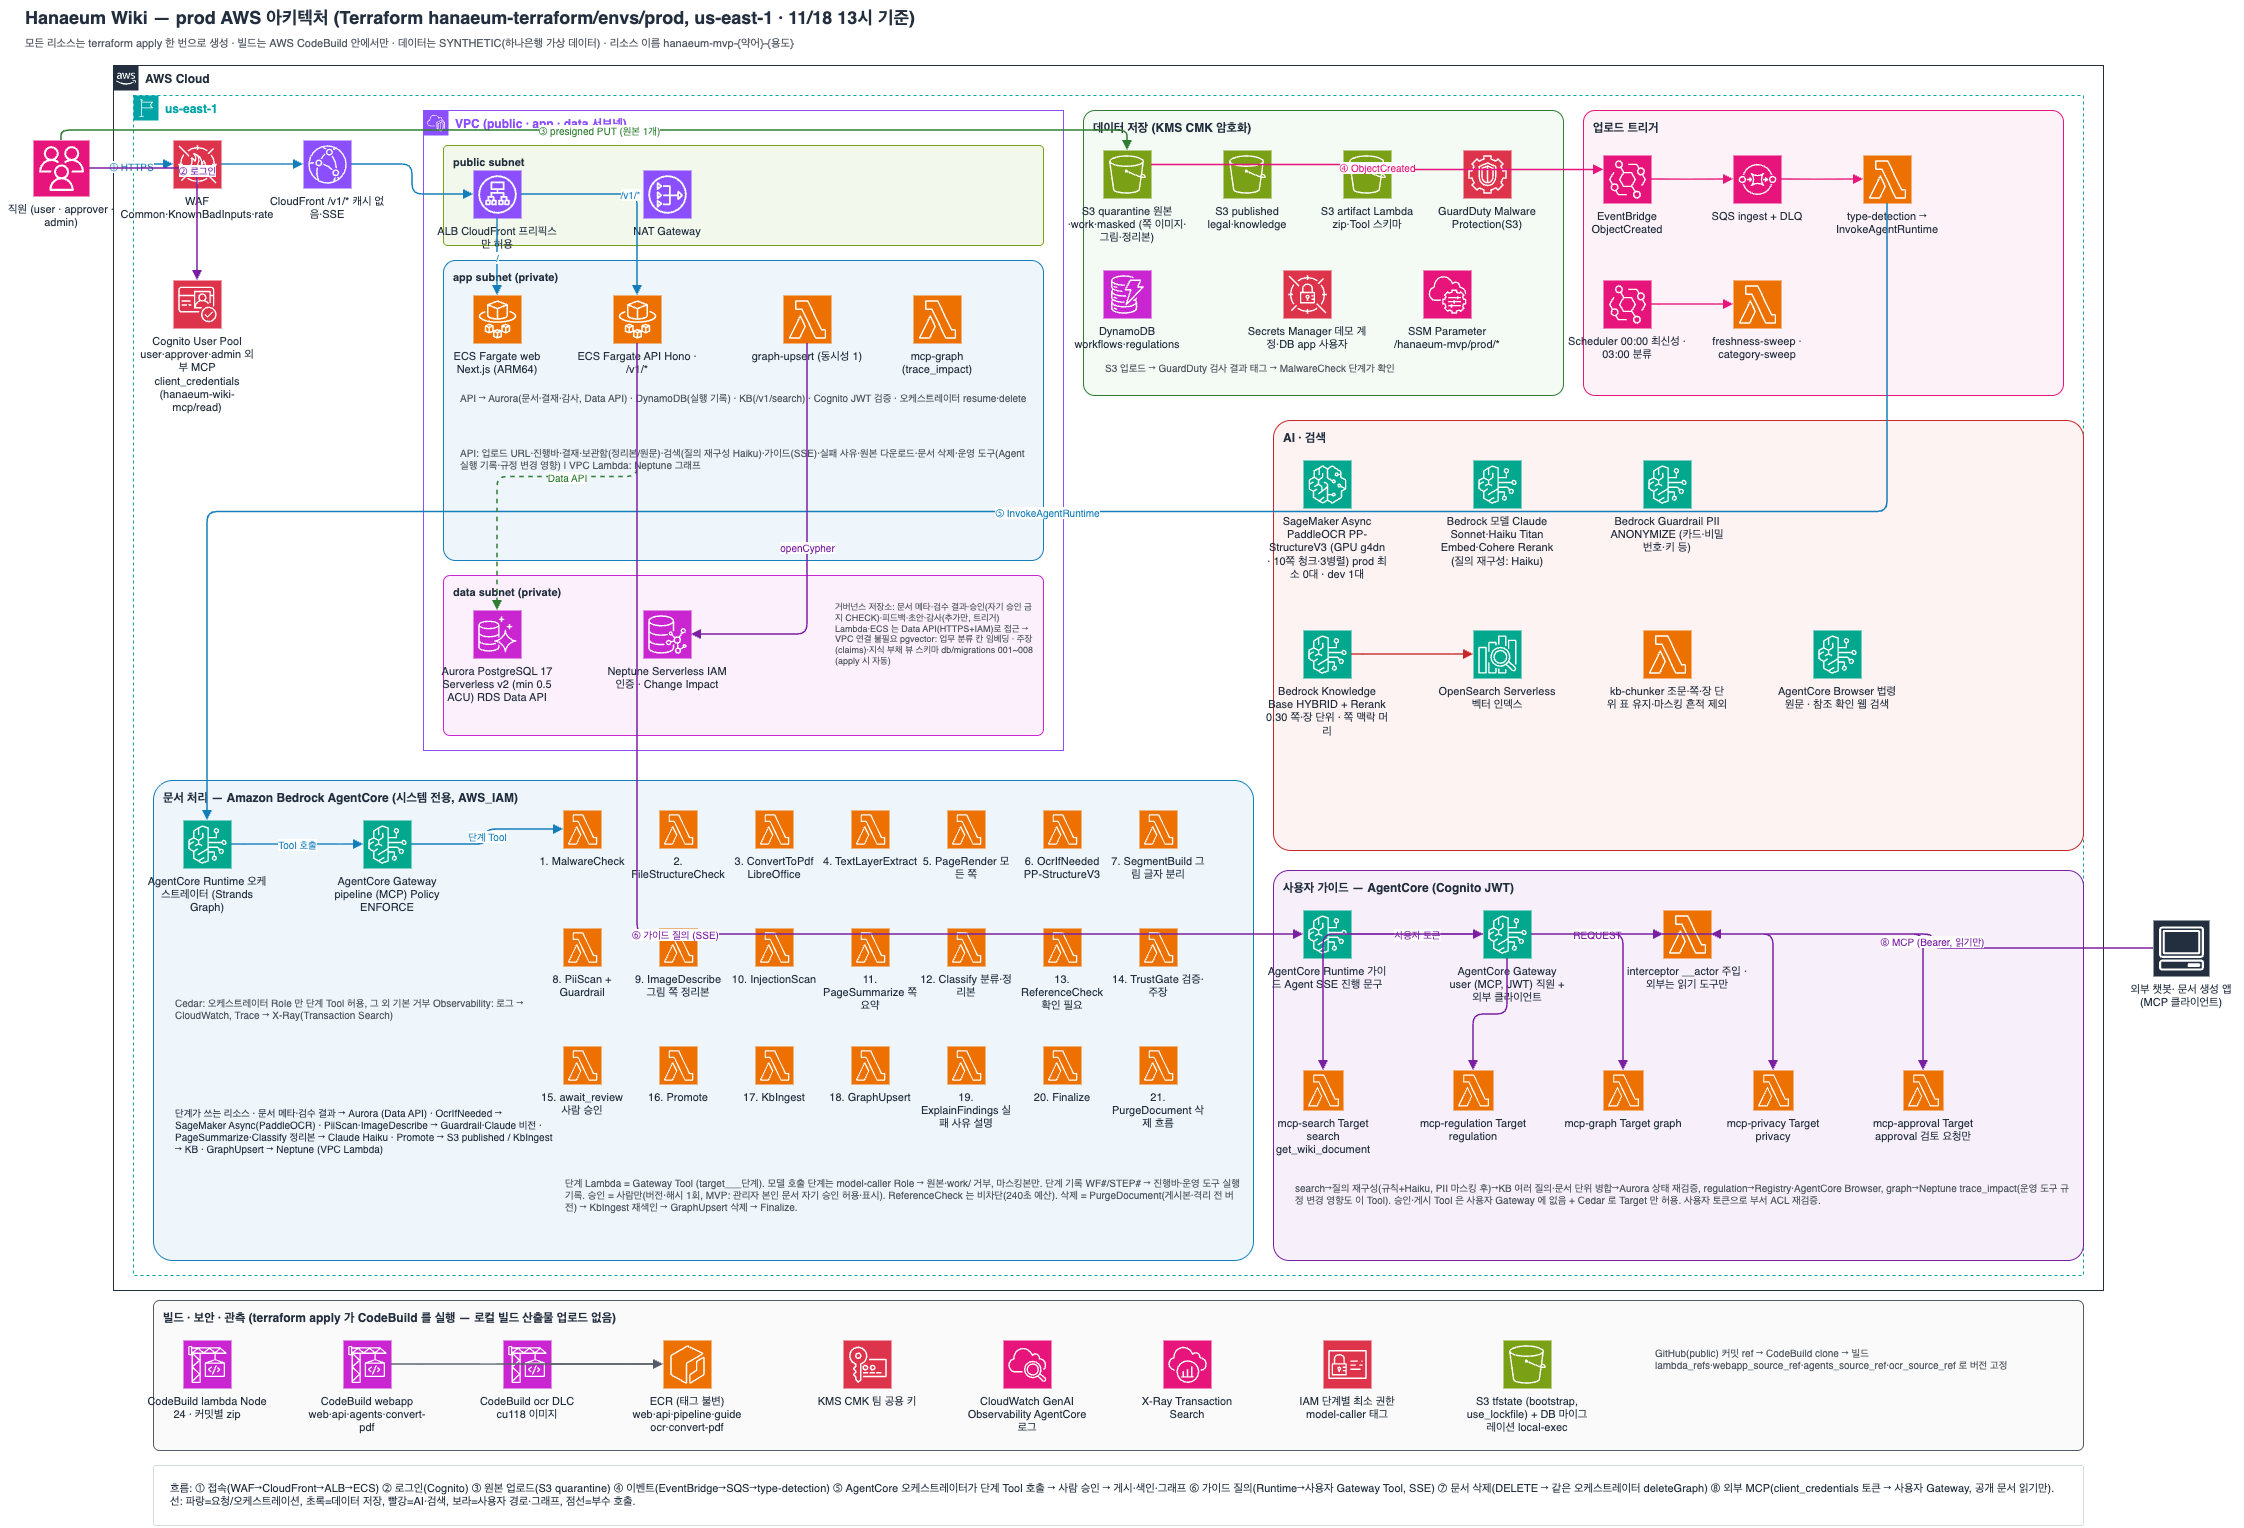
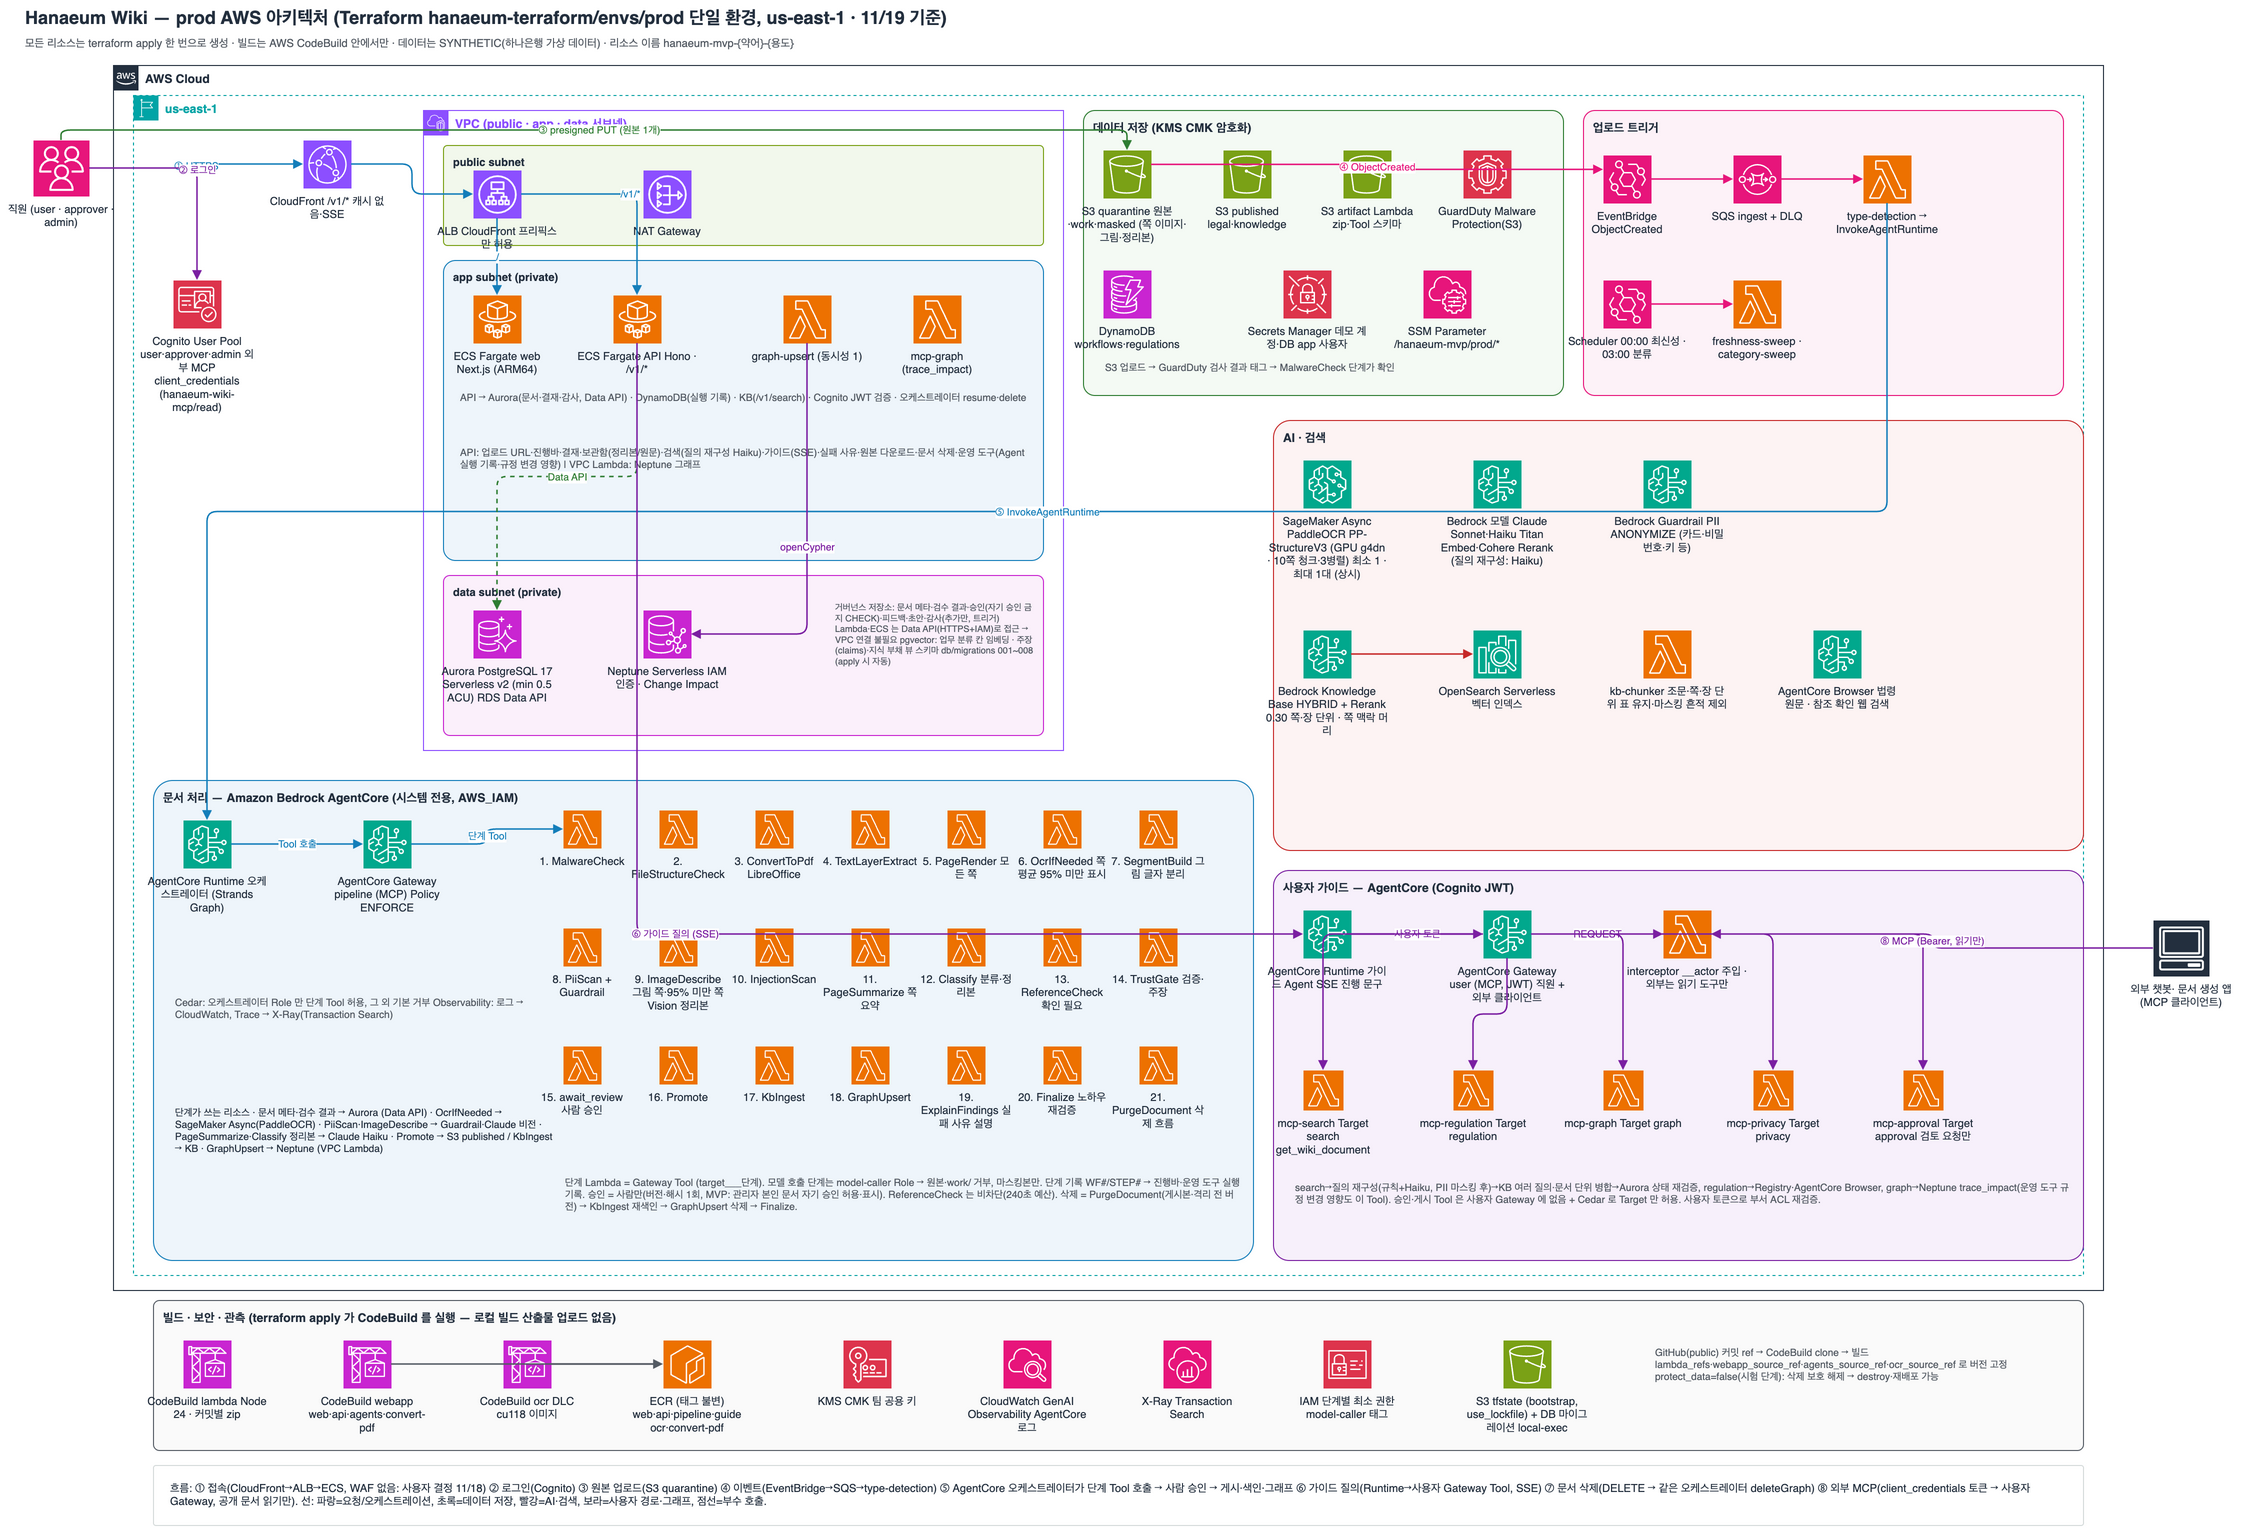
[yoyo0704] AWS 아키텍처 drawio·PNG 최신화 (11/19 prod 단일 환경, Terraform 기준)
Claude-Session: https://claude.ai/code/session_012iHv7WyqvZXnUj5QwZs7vw

diff --git a/hanaeum-terraform/docs/gen_drawio.py b/hanaeum-terraform/docs/gen_drawio.py
@@ -69,7 +69,7 @@ def edge(a, b, label="", color="#545B64", dashed=0, num=None, exit=None, entry=N
 BLUE, GREEN, PURPLE, RED, GRAY = "#147EBA", "#2E7D32", "#7B1FA2", "#C62828", "#545B64"
 
 # ---------- 제목 ----------
-text(20, 10, 1500, 30, "Hanaeum Wiki — prod AWS 아키텍처 (Terraform hanaeum-terraform/envs/prod, us-east-1 · 11/18 13시 기준)", fs=18, bold=1)
+text(20, 10, 1500, 30, "Hanaeum Wiki — prod AWS 아키텍처 (Terraform hanaeum-terraform/envs/prod 단일 환경, us-east-1 · 11/19 기준)", fs=18, bold=1)
 text(20, 40, 1700, 22, "모든 리소스는 terraform apply 한 번으로 생성 · 빌드는 AWS CodeBuild 안에서만 · 데이터는 SYNTHETIC(하나은행 가상 데이터) · 리소스 이름 hanaeum-mvp-{약어}-{용도}", fs=11, color=GRAY)
 
 # ---------- 사용자 ----------
@@ -81,7 +81,6 @@ group(110, 75, 1990, 1225, "AWS Cloud", "cloud", "#232F3E")
 group(130, 105, 1950, 1180, "us-east-1", "region", "#00A4A6", dashed=1)
 
 # 엣지(글로벌)
-waf = icon(170, 150, "waf", "security", "WAF\nCommon·KnownBadInputs·rate")
 cf = icon(300, 150, "cloudfront", "network", "CloudFront\n/v1/* 캐시 없음·SSE")
 cog = icon(170, 290, "cognito", "security", "Cognito User Pool\nuser·approver·admin\n외부 MCP client_credentials\n(hanaeum-wiki-mcp/read)")
 
@@ -126,9 +125,9 @@ gwp = icon(360, 830, "bedrock", "ai", "AgentCore Gateway\npipeline (MCP)\nPolicy
 text(170, 1000, 360, 110, "Cedar: 오케스트레이터 Role 만 단계 Tool 허용, 그 외 기본 거부\nObservability: 로그 → CloudWatch, Trace → X-Ray(Transaction Search)", fs=10, color=GRAY)
 steps = [
     ("MalwareCheck", "lambda"), ("FileStructureCheck", "lambda"), ("ConvertToPdf\nLibreOffice", "lambda"), ("TextLayerExtract", "lambda"), ("PageRender\n모든 쪽", "lambda"),
-    ("OcrIfNeeded\nPP-StructureV3", "lambda"), ("SegmentBuild\n그림 글자 분리", "lambda"), ("PiiScan\n+ Guardrail", "lambda"), ("ImageDescribe\n그림 쪽 정리본", "lambda"),
+    ("OcrIfNeeded\n쪽 평균 95% 미만 표시", "lambda"), ("SegmentBuild\n그림 글자 분리", "lambda"), ("PiiScan\n+ Guardrail", "lambda"), ("ImageDescribe\n그림 쪽·95% 미만 쪽\nVision 정리본", "lambda"),
     ("InjectionScan", "lambda"), ("PageSummarize\n쪽 요약", "lambda"), ("Classify\n분류·정리본", "lambda"), ("ReferenceCheck\n확인 필요", "lambda"), ("TrustGate\n검증·주장", "lambda"), ("await_review\n사람 승인", "lambda"),
-    ("Promote", "lambda"), ("KbIngest", "lambda"), ("GraphUpsert", "lambda"), ("ExplainFindings\n실패 사유 설명", "lambda"), ("Finalize", "lambda"), ("PurgeDocument\n삭제 흐름", "lambda"),
+    ("Promote", "lambda"), ("KbIngest", "lambda"), ("GraphUpsert", "lambda"), ("ExplainFindings\n실패 사유 설명", "lambda"), ("Finalize\n노하우 재검증", "lambda"), ("PurgeDocument\n삭제 흐름", "lambda"),
 ]
 sx, sy = 560, 820
 step_ids = {}
@@ -144,7 +143,7 @@ text(455, 395, 570, 50, "API → Aurora(문서·결재·감사, Data API) · Dyn
 
 # ---------- AI / 검색 ----------
 box(1270, 430, 810, 430, "AI · 검색", stroke=RED, fill="#FDF3F3")
-sm = icon(1300, 470, "sagemaker", "ai", "SageMaker Async\nPaddleOCR PP-StructureV3\n(GPU g4dn · 10쪽 청크·3병렬)\nprod 최소 0대 · dev 1대")
+sm = icon(1300, 470, "sagemaker", "ai", "SageMaker Async\nPaddleOCR PP-StructureV3\n(GPU g4dn · 10쪽 청크·3병렬)\n최소 1 · 최대 1대 (상시)")
 br = icon(1470, 470, "bedrock", "ai", "Bedrock 모델\nClaude Sonnet·Haiku\nTitan Embed·Cohere Rerank\n(질의 재구성: Haiku)")
 grd = icon(1640, 470, "bedrock", "ai", "Bedrock Guardrail\nPII ANONYMIZE\n(카드·비밀번호·키 등)")
 kb = icon(1300, 640, "bedrock", "ai", "Bedrock Knowledge Base\nHYBRID + Rerank 0.30\n쪽·장 단위 · 쪽 맥락 머리")
@@ -175,11 +174,10 @@ cw = icon(1000, 1350, "cloudwatch_2", "mgmt", "CloudWatch\nGenAI Observability\n
 xr = icon(1160, 1350, "xray", "mgmt", "X-Ray\nTransaction Search")
 iam = icon(1320, 1350, "identity_and_access_management", "security", "IAM\n단계별 최소 권한\nmodel-caller 태그")
 tfs = icon(1500, 1350, "s3", "storage", "S3 tfstate\n(bootstrap, use_lockfile)\n+ DB 마이그레이션 local-exec")
-text(1650, 1350, 420, 100, "GitHub(public) 커밋 ref → CodeBuild clone → 빌드\nlambda_refs·webapp_source_ref·agents_source_ref·ocr_source_ref 로 버전 고정", fs=10, color=GRAY)
+text(1650, 1350, 420, 100, "GitHub(public) 커밋 ref → CodeBuild clone → 빌드\nlambda_refs·webapp_source_ref·agents_source_ref·ocr_source_ref 로 버전 고정\nprotect_data=false(시험 단계): 삭제 보호 해제 → destroy·재배포 가능", fs=10, color=GRAY)
 
 # ---------- 흐름 ----------
-edge(u, waf, "HTTPS", BLUE, num="①")
-edge(waf, cf, "", BLUE)
+edge(u, cf, "HTTPS", BLUE, num="①")
 edge(cf, alb, "", BLUE)
 edge(alb, web, "/", BLUE)
 edge(alb, api, "/v1/*", BLUE)
@@ -206,7 +204,7 @@ edge(cb3, ecr, "", GRAY)
 
 # 범례
 box(150, 1475, 1930, 60, "", stroke="#D5DBDB", fill="#FFFFFF", bold=0)
-text(165, 1485, 1900, 50, "흐름: ① 접속(WAF→CloudFront→ALB→ECS) ② 로그인(Cognito) ③ 원본 업로드(S3 quarantine) ④ 이벤트(EventBridge→SQS→type-detection) ⑤ AgentCore 오케스트레이터가 단계 Tool 호출 → 사람 승인 → 게시·색인·그래프 ⑥ 가이드 질의(Runtime→사용자 Gateway Tool, SSE) ⑦ 문서 삭제(DELETE → 같은 오케스트레이터 deleteGraph) ⑧ 외부 MCP(client_credentials 토큰 → 사용자 Gateway, 공개 문서 읽기만).  "
+text(165, 1485, 1900, 50, "흐름: ① 접속(CloudFront→ALB→ECS, WAF 없음: 사용자 결정 11/18) ② 로그인(Cognito) ③ 원본 업로드(S3 quarantine) ④ 이벤트(EventBridge→SQS→type-detection) ⑤ AgentCore 오케스트레이터가 단계 Tool 호출 → 사람 승인 → 게시·색인·그래프 ⑥ 가이드 질의(Runtime→사용자 Gateway Tool, SSE) ⑦ 문서 삭제(DELETE → 같은 오케스트레이터 deleteGraph) ⑧ 외부 MCP(client_credentials 토큰 → 사용자 Gateway, 공개 문서 읽기만).  "
      "선: 파랑=요청/오케스트레이션, 초록=데이터 저장, 빨강=AI·검색, 보라=사용자 경로·그래프, 점선=부수 호출.", fs=11)
 
 xml = ('<mxfile host="app.diagrams.net"><diagram id="prod" name="prod AWS"><mxGraphModel dx="1600" dy="1200" grid="1" gridSize="10" guides="1" '

diff --git a/hanaeum-terraform/docs/README.md b/hanaeum-terraform/docs/README.md
@@ -1,4 +1,4 @@
 # hanaeum-terraform/docs
 
-Terraform 구성의 아키텍처 그림. `prod-architecture.drawio`(편집용)·`prod-architecture.png`(보기용). 생성 기준: envs/prod (11/18 13시: 전부 OCR·ConvertToPdf·그림 쪽 정리본·확인 필요(ReferenceCheck)·업무 분류·주장·외부 MCP·관리자 자기 승인 반영).
+Terraform 구성의 아키텍처 그림. `prod-architecture.drawio`(편집용)·`prod-architecture.png`(보기용). 생성 기준: envs/prod 단일 환경 (11/19: dev 폐기, WAF 없음, OCR 최소1·최대1, 95% 미만 쪽 Vision 정리본, Finalize 노하우 재검증, protect_data=false. 그 전 11/18 13시 반영분 포함).
 다시 만들기: `python3 gen_drawio.py prod-architecture.drawio` → draw.io 데스크톱 `draw.io -x -f png -s 1 -o prod-architecture.png prod-architecture.drawio`
